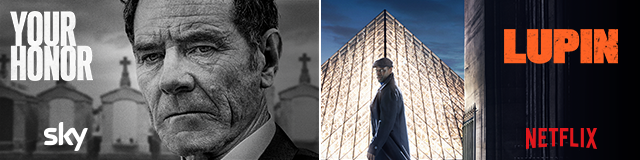
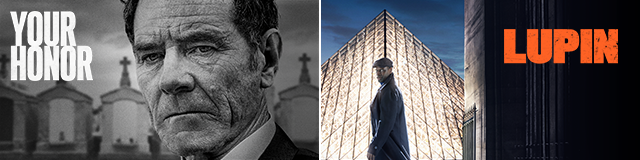
d

Changed region(s): [[0.8125, 0.7812, 0.9375, 0.9375], [0.0625, 0.75, 0.1562, 0.9375]]

diff --git a/top/style.css b/top/style.css
@@ -30,30 +30,113 @@ button{
   outline: none;
 }
 .top {
-  background: url(bg.png) center;
+  /* background: url(./bg.png) center; */
   background-size: 100% 100%;
   display: flex;
-  max-width: 100vw;
+  width: 100vw;
   height: 100vh;
-  position: relative;
   overflow: hidden;
-  justify-content: space-between;
-  overflow: hidden;
+  color: #fff;
+  font-family: "Sky-reg";
+  font-size: 6.9px;
 }
-.top__text{
-  position: absolute;
+.left,.right{
+  width: 50%;
+  height: 100vh;
+}
+.left{
+  background: url(./bg-left.png) center;
+  background-size: 100% 100%;
+  display: flex;
+  flex-direction: column;
+  justify-content: space-around;
+}
+.left__name{
+  width: 30%;
+  margin-left: 5px;
+}
+.left__disc{
+  display: flex;
+  flex-direction: column;
+  align-items: center;
+  width: 50%;
+}
+.left__text{
+  margin-bottom: 5px;
+  font-size: 6.9px;
+}
+.left__text>span{
+  font-family: "Sky";
+}
+.left__logo{
+  width: 30%;
+}
+.right{
+  background: url(./bg-right.png) center;
+  background-size: 100% 100%;
+  display: flex;
+  flex-direction: column;
+  align-items: flex-end;
+
+}
+.right__container{
+  display: flex;
+  flex-direction: column;
+  align-items: center;
+  justify-content: space-around;
+  width: 50%;
+  height: 100%;
+}
+.right__name{
+  width: 70%;
+  margin-left: 5px;
+}
+.right__disc{
+  display: flex;
+  flex-direction: column;
+  align-items: center;
+  width: 100%;
+}
+.right__text{
+  margin-bottom: 5px;
+  font-size: 6.9px;
+}
+.right__text>span{
+  font-family: "Sky";
+}
+.right__logo{
+  width: 50%;
+}
+
+/* .top__text{
   color: #fff;
   font-size: 6.9px;
   font-family: "Sky-reg";
+  display: flex;
+  flex-direction: column;
+  justify-content: center;
+  align-items: center;
 }
 .top__text>span{
   font-family: "Sky";
 }
 .top__text1{
-  bottom: 26px;
-  left: 8px;
+  margin-left: 10px;
+  margin-bottom: 7px;
+}
+.top__text1>p{
+  margin-bottom: 3px;
+}
+.top__img{
+  width: 40%;
+  margin-bottom: -5px;
 }
 .top__text2{
-  bottom: 26px;
-  right: 22px;
+  margin-bottom: 5px;
 }
+.top__text2>p{
+  margin-bottom: 3px;
+}
+.top__img1{
+  width: 55%;
+} */

diff --git a/main/style.css b/main/style.css
@@ -37,33 +37,57 @@ button {
 }
 
 .top {
-  background: url(./bg.png) center;
+  /* background: url(./bg.png) center; */
   background-size: 100% 100%;
   display: flex;
   width: 100vw;
   height: 37vh;
   overflow: hidden;
-  justify-content: space-between;
-  overflow: hidden;
-  position: relative;
 }
-.top__text{
-  position: absolute;
+.left,.right{
+  width: 50%;
+  
+}
+.left{
+  background: url(./bg-left.png) center;
+  background-size: 100% 100%;
+}
+.right{
+  background: url(./bg-right.png) center;
+  background-size: 100% 100%;
+}
+/* .top__text{
   color: #fff;
-  font-size: 10px;
+  font-size: 6.9px;
   font-family: "Sky-reg";
+  display: flex;
+  flex-direction: column;
+  justify-content: center;
+  align-items: center;
 }
 .top__text>span{
   font-family: "Sky";
 }
 .top__text1{
-  bottom: 30px;
-  left: 37px;
+  margin-left: 10px;
+  margin-bottom: 7px;
+}
+.top__text1>p{
+  margin-bottom: 3px;
+}
+.top__img{
+  width: 40%;
+  margin-bottom: -5px;
 }
 .top__text2{
-  bottom: 30px;
-  right: 48px;
+  margin-bottom: 5px;
 }
+.top__text2>p{
+  margin-bottom: 3px;
+}
+.top__img1{
+  width: 55%;
+} */
 .bottom {
   width: 100vw;
   height: 63vh;

diff --git a/top/index.html b/top/index.html
@@ -8,8 +8,28 @@
   </head>
   <body>
     <div class="top">
-      <div class="top__text1 top__text"> <span>Staffel 1</span>, jetzt verfügbar</div>
-        <div class="top__text2 top__text"> <span>Teil 1</span>, jetzt ansehen</div>
+      <div class="left">
+        <img src="./left-name.png" alt="" class="left__name">
+       <div class="left__disc">
+        <p class="left__text">
+          <span>Staffel 1,</span> jetzt verfügbar
+        </p>
+        <img src="./sky.png" alt="logo" class="left__logo">
+       </div>
+      </div>
+      <div class="right">
+        <div class="right__container">
+        <img src="./right-name.png" alt="" class="right__name">
+        <div class="right__disc">
+          <p class="right__text">
+            <span>Teil 1,</span> jetzt ansehen
+             
+          </p>
+          <img src="./netflix.png" alt="logo" class="right__logo">
+         </div>
+        </div>
+      </div>
+    </div>
     </div>
     <script>
         

diff --git a/main/index.html b/main/index.html
@@ -12,8 +12,8 @@
   <body>
     <div class="center">
       <div class="top">
-        <div class="top__text1 top__text"> <span>Staffel 1</span>, jetzt verfügbar</div>
-        <div class="top__text2 top__text"> <span>Teil 1</span>, jetzt ansehen</div>
+          <div class="left"></div>
+          <div class="right"></div>
       </div>
       <div class="bottom">
         <img src="./logo.png" alt="logo" class="logo logoActive" id="logo" />
